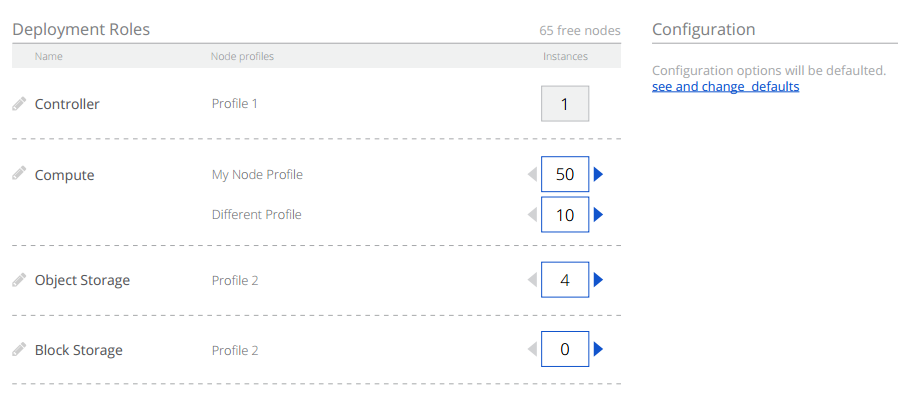
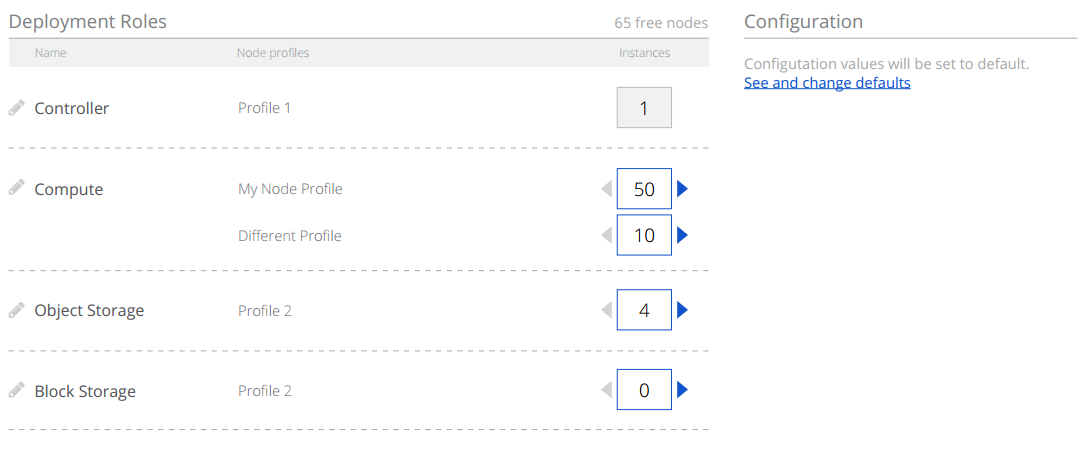
Final repairs of Tuskar presentation
Adding more images

diff --git a/index.html b/index.html
@@ -392,25 +392,38 @@ setup-endpoints 192.0.2.1 --glance-password unset \
 					</section>
 
 					<section>
-						<h2>Deployment Role</h2>
+						<h2>Hardware profiles (Flavors)</h2>
 						<p>
 							<ul>
-								<li>Creates a group of baremetals acting the same role in the system. (E.g. nova compute)</li>
-								<li>Determines what hardware can be used in this role</li>
-								<li>Determines what image can be used in this role</li>
-								<li>Deployment is described by heat template</li>
+								<li>Standard openstack flavors with architecture field (x86/amd64) added</li>
+								<li>Heat uses nova-boot for provisioning, nova scheduler looks for available hardware by doing exact match of node specs with chosen flavor</li>
 							</ul>
 						</p>
 					</section>
 
-
 					<section>
-						<h2>Deployment role example</h2>
-						<img class="stretch" src="images/adding_flavors_to_roles.png"/>
+						<h2>Images</h2>
+						<p>
+							<ul>
+								<li>Created by image builder and uploaded to Glance.</li>
+							</ul>
+						</p>
 					</section>
 
 					<section>
-						<h2>Limited for Icehouse</h2>
+						<h2>Deployment Role</h2>
+						<p>
+							</ul>
+								<li>Creates a group of baremetals running the same group of services. (E.g. nova compute, block storage, etc.)</li>
+								<li>Relation to hardware profiles(flavors)</li>
+								<li>Relation to image</li>
+								<li>Relation to heat template</li>
+							</ul>
+						</p>
+					</section>
+
+					<section>
+						<h2>Limited for these roles for Icehouse</h2>
 						<p>
 							<ul>
 								<li>Controller (all services control planes)</li>
@@ -421,6 +434,10 @@ setup-endpoints 192.0.2.1 --glance-password unset \
 						</p>
 					</section>
 
+					<section>
+						<h2>Deployment role example</h2>
+						<img class="stretch" src="images/adding_flavors_to_roles.png"/>
+					</section>
 
 					<section>
 						<h2>Deploying Overcloud example</h2>
@@ -428,7 +445,17 @@ setup-endpoints 192.0.2.1 --glance-password unset \
 					</section>
 
 					<section>
-						<h2>Future(Juno) management of Deployment Roles</h2>
+						<h2>Deploying Overcloud example</h2>
+						<img class="stretch" src="images/deployment_in_progress.png" />
+					</section>
+
+					<section>
+						<h2>Deploying Overcloud example</h2>
+						<img class="stretch" src="images/deployed.png" />
+					</section>
+
+					<section>
+						<h2>Future (Juno) management of Deployment Roles</h2>
 						<p>
 							<ul>
 								<li>Assigning Image</li>
@@ -436,18 +463,9 @@ setup-endpoints 192.0.2.1 --glance-password unset \
 								<li>Assigning Hardware profiles (flavors)</li>
 							</ul>
 						</p>
-						<p>Then we are prepared to deploy any service on separate baremetals that can be easily scaled,
-				e.g. Neutron, Ceilometer, Ironic, etc....</p>
-					</section>
-
-					<section>
-						<h2>Future(Juno) deploy all with lxc</h2>
-						<p>
-							<ul>
-								<li>Preparing image and template for every possible standalone service</li>
-								<li>Deploying them on one machine or separates machines as needed</li>
-							</ul>
-						</p>
+						<p>Then we are prepared to deploy any service on the separate baremetals, that can be
+							easily scaled, e.g. Neutron, Ceilometer, Ironic, etc....</p>
+					    <p>In future we will allow to provision multiple images on one machine with Docker.</p>
 					</section>
 
 					<section>
@@ -460,6 +478,7 @@ setup-endpoints 192.0.2.1 --glance-password unset \
 						</p>
 					</section>
 			    </section>
+
 				<section>
 					<section>
 						<h2>Overcloud monitoring with Tuskar</h2>
@@ -470,7 +489,8 @@ setup-endpoints 192.0.2.1 --glance-password unset \
 						<p>
 							<ul>
 								<li>Icehouse: monitoring via SNMP: cpu_util, memory, disk, network</li>
-								<li>Juno: monitoring via IPMI: Temperature, FAN Speed, Volt, etc. Plus pluggable architecture for vendor specific metrics.</li>
+								<li>Juno: monitoring via IPMI: Temperature, Fan Speed, Volt, etc. Plus
+									pluggable architecture for vendor specific metrics.</li>
 							</ul>
 						</p>
 					</section>
@@ -479,9 +499,11 @@ setup-endpoints 192.0.2.1 --glance-password unset \
 						<h2>Storing and querying stats</h2>
 						<p>
 							<ul>
+								<li>Using Ceilometer agent for polling of the samples</li>
 								<li>Using Ceilometer as generic samples and meters storage</li>
 								<li>Using Ceilometer for querying statistics</li>
-								<li>Ceilometer is supporting many backends MongoDB, MySQL, PostgreSQL, HBase, DB2 (Elastic search in progress)</li>
+								<li>Ceilometer is supporting many backends MongoDB, MySQL, PostgreSQL,
+									HBase, DB2 (Elastic search in progress)</li>
 							</ul>
 						</p>
 					</section>
@@ -492,11 +514,11 @@ setup-endpoints 192.0.2.1 --glance-password unset \
 					</section>
 
 					<section>
-						<h2>Future (Juno) Adding events timeline to charts</h2>
+						<h2>Future (Juno) Adding 'events time-line' to charts</h2>
 						<p>
 							<ul>
-								<li>Under the each chart, there will be a timeline of the events, as a context for the chart data.</li>
-								<li>E.g. machine powered down, bad health, etc..</li>
+								<li>Under the each chart, there will be a time-line of the events, as a context for the chart data.</li>
+								<li>E.g. machine updated, powered down, bad health, etc..</li>
 							</ul>
 						</p>
 					</section>
@@ -528,139 +550,47 @@ setup-endpoints 192.0.2.1 --glance-password unset \
 					</section>
 
 					<section>
-						<h2>Future(Juno) scaling of the overcloud</h2>
+						<h2>Downscaling of the overcloud</h2>
 						<p>
 							<ul>
+								<li>Deleting resource manually then update stack.</li>
 								<li>Choosing which resource to unprovision when downscaling, so
 				users can evacuate services running inside, before downscaling happens</li>
-								<li>Next:defining hooks for upscaling/downscaling so the evacuating behavior can
+								<li>Next: defining hooks for upscaling/downscaling so the evacuating behavior can
 				be defined on template level, so it will be automatic.</li>
 							</ul>
 						</p>
 					</section>
 
 					<section>
-						<h2>Future(Juno) autoscaling of the overcloud</h2>
+						<h2>Future (Juno) Auto-scaling of the overcloud</h2>
 						<p>
 							<ul>
-								<li>Autoscaling using Ceilometer alarms defined in the Heat template</li>
-								<li>Setting minimum and maximum of scaled instances in autoscaling group.</li>
-								<li>Future(Juno) Marking baremetals as expendable / critical</li>
+								<li>We are waiting on ability to scale nested stacks, implemented in Heat</li>
+								<li>Auto-scaling using Ceilometer alarms defined in the Heat template </li>
+								<li>Auto-scaling with conditions we need, e.g. cpu_util bigger than 50% for 1 munute
 							</ul>
 						</p>
 					</section>
 
 					<section>
-						<h2>Defining autoscaling group</h2>
-						<p><pre><code data-trim>
-
-WebServerGroup:
-    Type: AWS::AutoScaling::AutoScalingGroup
-    Properties:
-      AvailabilityZones: {'Fn::GetAZs': ''}
-      LaunchConfigurationName: {Ref: LaunchConfig}
-      MinSize: '1'
-      MaxSize: '3'
-      LoadBalancerNames:
-      - {Ref: ElasticLoadBalancer}
-      Tags:
-      - {Key: metering.server_group, Value: WebServerGroup}
-
-						</code></pre></p>
-					</section>
-
-					<section>
-						<h2>Defining load balancer</h2>
-						<p><pre><code data-trim>
-
-ElasticLoadBalancer:
-    Type: AWS::ElasticLoadBalancing::LoadBalancer
-    Properties:
-      AvailabilityZones: {'Fn::GetAZs': ''}
-      Listeners:
-      - {LoadBalancerPort: '80', InstancePort: '80',
-        Protocol: HTTP}
-      HealthCheck: {Target: 'HTTP:80/', HealthyThreshold: '3',
-        UnhealthyThreshold: '5', Interval: '30', Timeout: '5'}
-
-						</code></pre></p>
-					</section>
-
-				    <section>
-						<h2>Defining alarm</h2>
-						<p><pre><code data-trim>
-CPUAlarmHigh:
-    Type: OS::Ceilometer::Alarm
-    Properties:
-      description: Scale-up if the average CPU > 50% for 1 minute
-      meter_name: cpu_util
-      statistic: avg
-      period: '60'
-      evaluation_periods: '1'
-      threshold: '50'
-      alarm_actions:
-      - {"Fn::GetAtt": [WebServerScaleUpPolicy, AlarmUrl]}
-      matching_metadata: {'metadata.user_metadata.groupname': {Ref: 'WebServerGroup'}}
-      comparison_operator: gt
-	      				</code></pre></p>
-					</section>
-
-					<section>
-						<h2>Defining policy</h2>
-						<p><pre><code data-trim>
-WebServerScaleUpPolicy:
-Type: AWS::AutoScaling::ScalingPolicy
-Properties:
-  AdjustmentType: ChangeInCapacity
-  AutoScalingGroupName: {Ref: WebServerGroup}
-  Cooldown: '60'
-  ScalingAdjustment: '1'
-						</code></pre></p>
-					</section>
-					<section>
-						<h2>FUTURE(Juno) Auto-scaling of you application</h2>
+						<h2>FUTURE (Juno) Auto-scaling examples</h2>
 						<ul>
-							<li>Example above is taken from scaling of Wordpress</li>
-							<li>The same principle can be used for scaling baremetals (HOT scaling of nested stack)</li>
-							<li>It can be combined, as you application is scaling, the more hardware will be needed. That can be taken from e.g. other scaling down and releasing the hardware.</li>
-							<li>Once the new hardware is plugged, it will be auto-discovered and auto-scaled.
+							<li>Newly plugged hardware can be auto-discovered and auto-scaled.</li>
+							<li>It can be combined, as you application is scaling, the more hardware will be needed.
+							That can be taken from e.g. other scaling down and releasing the hardware.</li>
 						</ul>
 					</section>
 				</section>
 
 			    <section>
 					<section>
-						<h2>Future(Juno) Running overcloud in HA</h2>
-					</section>
-					<section>
-						<h2>HA - done</h2>
-						<p>
-							<ul>
-								<li>HA proxy as image element</li>
-							</ul>
-						</p>
-					</section>
-					<section>
-						<h2>HA - in progress</h2>
-						<p>
-							<ul>
-								<li>AMQP - Rabit MQ in active-active mod</li>
-								<li>API instances - virtual IP - keepalived + HA proxy</li>
-								<li>DP - Mysql Percona XtraDB Cluster</li>
-							</ul>
-						</p>
-					</section>
-				</section>
-
-				<section>
-					<section>
-						<h2>Updates</h2>
-						<p>
-							<ul>
-								<li></li>
-								<li></li>
-							</ul>
-						</p>
+						<h2>Running overcloud in HA</h2>
+						<ul>
+							<li>AMQP - Rabit MQ cluster in active-active</li>
+							<li>Openstack API instances - Virtual IP and keepalived + HA proxy</li>
+							<li>DB - Mysql Percona XtraDB Cluster</li>
+						</ul>
 					</section>
 				</section>
 
@@ -668,24 +598,59 @@ Properties:
 					<section>
 						<h2>Different Architectures</h2>
 					</section>
+
 					<section>
-						<h2>Flat network topology</h2>
+						<h2>Flat network topology under one L2 switch</h2>
+						Advantages:
 						<p>
 							<ul>
-								<li>Right now we support the easiest architecture that is flat network under L2 switch</li>
+								<li>Easy to install and upgrade </li>
+							</ul>
+						</p>
+						Disadvantages:
+						<p>
+							<ul>
+								<li>Possible performance issues when bringing up a large number of machines.</li>
+								<li>Large failure domain.</li>
 							</ul>
 						</p>
 					</section>
+
 					<section>
-						<h2>Future(Juno)</h2>
+						<h2>Future(Juno) Distributed Spine/Leaf topology</h2>
+						Advantages:
 						<p>
 							<ul>
-								<li>Distributed Spine/Leaf topology</li>
-								<li>Smaller failure domains, safer distributed network</li>
-								<li>[link to security guide from noszlp]</li>
+								<li>Complies to the security guide: http://docs.openstack.org/sec/</li>
+								<li>Smaller failure domain.</li>
+								<li>Better security due to IPMI isolation within the rack.</li>
+							</ul>
+						</p>
+						Disadvantages:
+						<p>
+							<ul>
+								<li>Additional image management of the Leaf Node image</li>
+								<li>Additional rack space wasted for the Leaf Node</li>
 							</ul>
 						</p>
 					</section>
+				</section>
+
+				<section>
+					<h2>Tuskar API and Tuskar-UI summary</h2>
+					<p>
+						<ul>
+							<li>Deploy overcloud</li>
+							<li>Monitor overcloud</li>
+							<li>Manage overcloud</li>
+							<ul>
+								<li>Scale</li>
+								<li>Auto-scale</li>
+								<li>Update</li>
+							</ul>
+						</ul>
+					</p>
+
 				</section>
 
 				<section>
